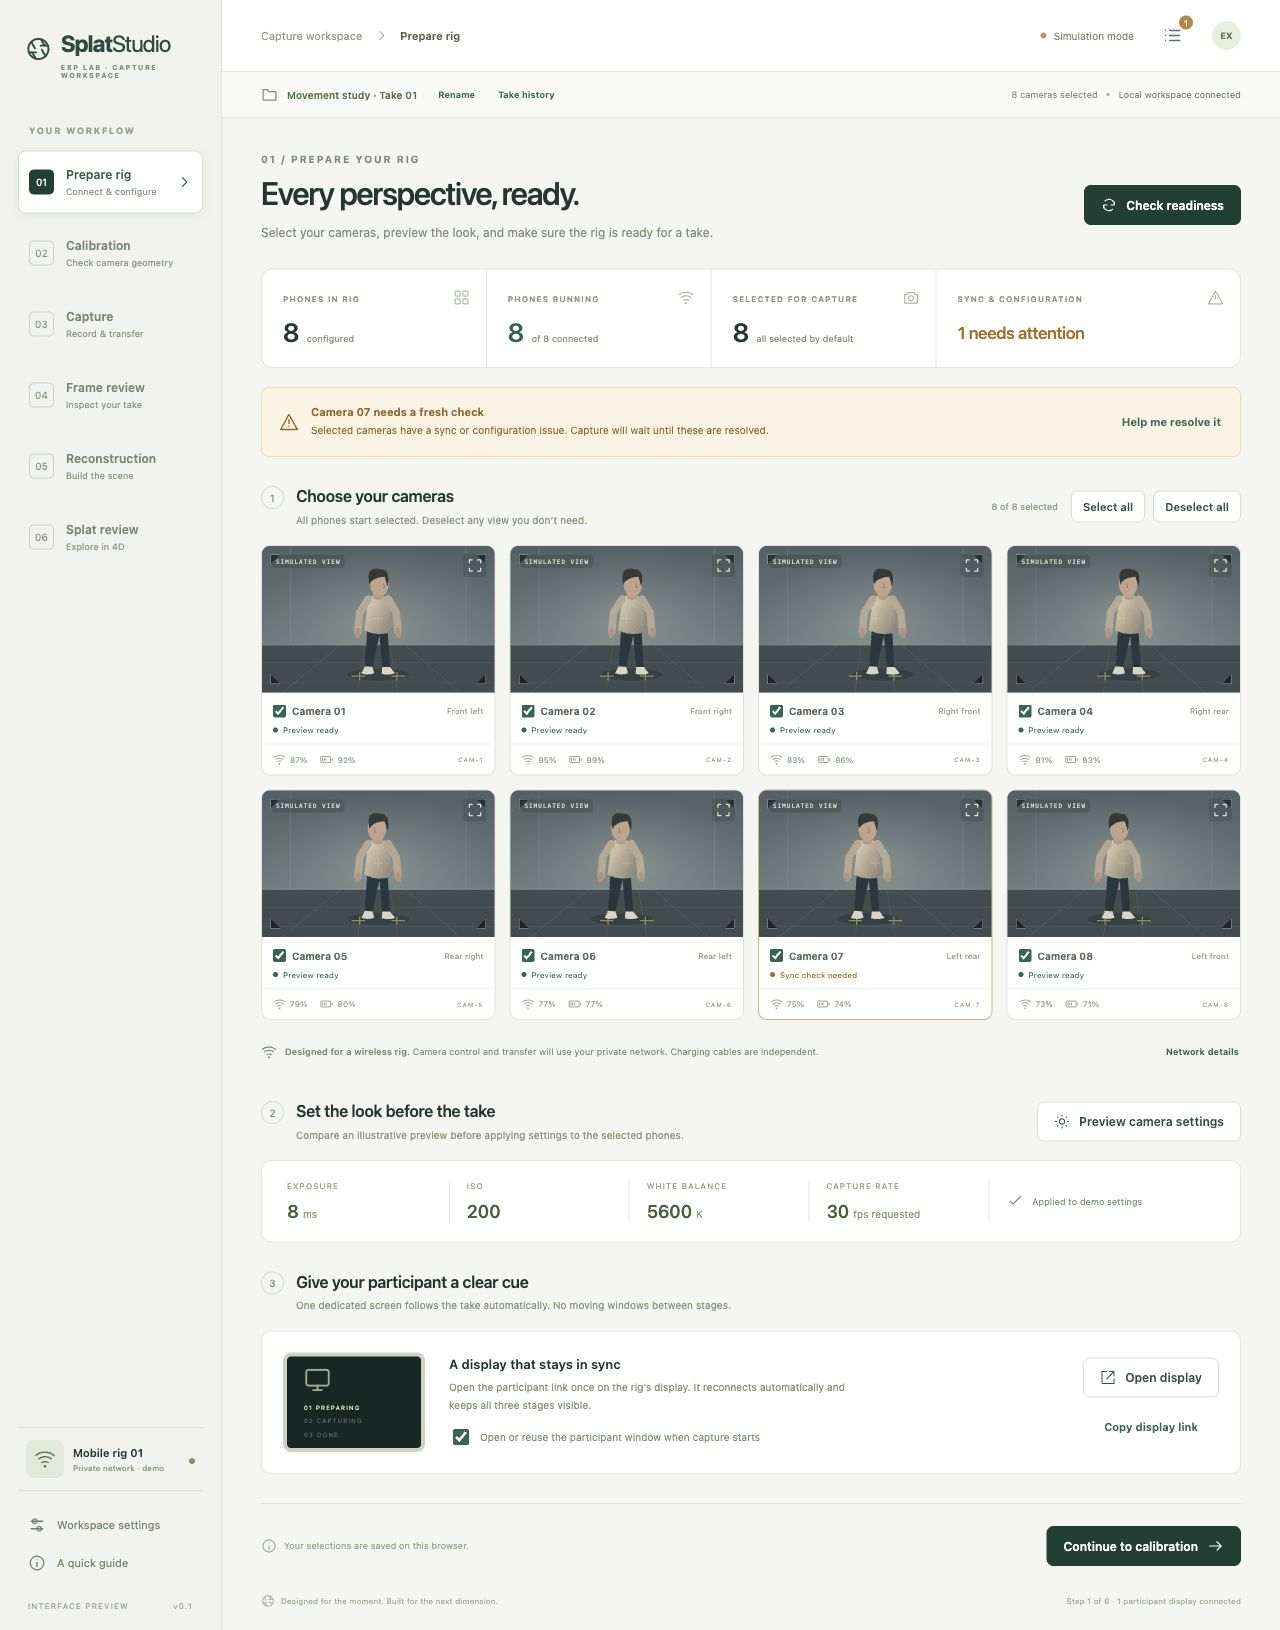
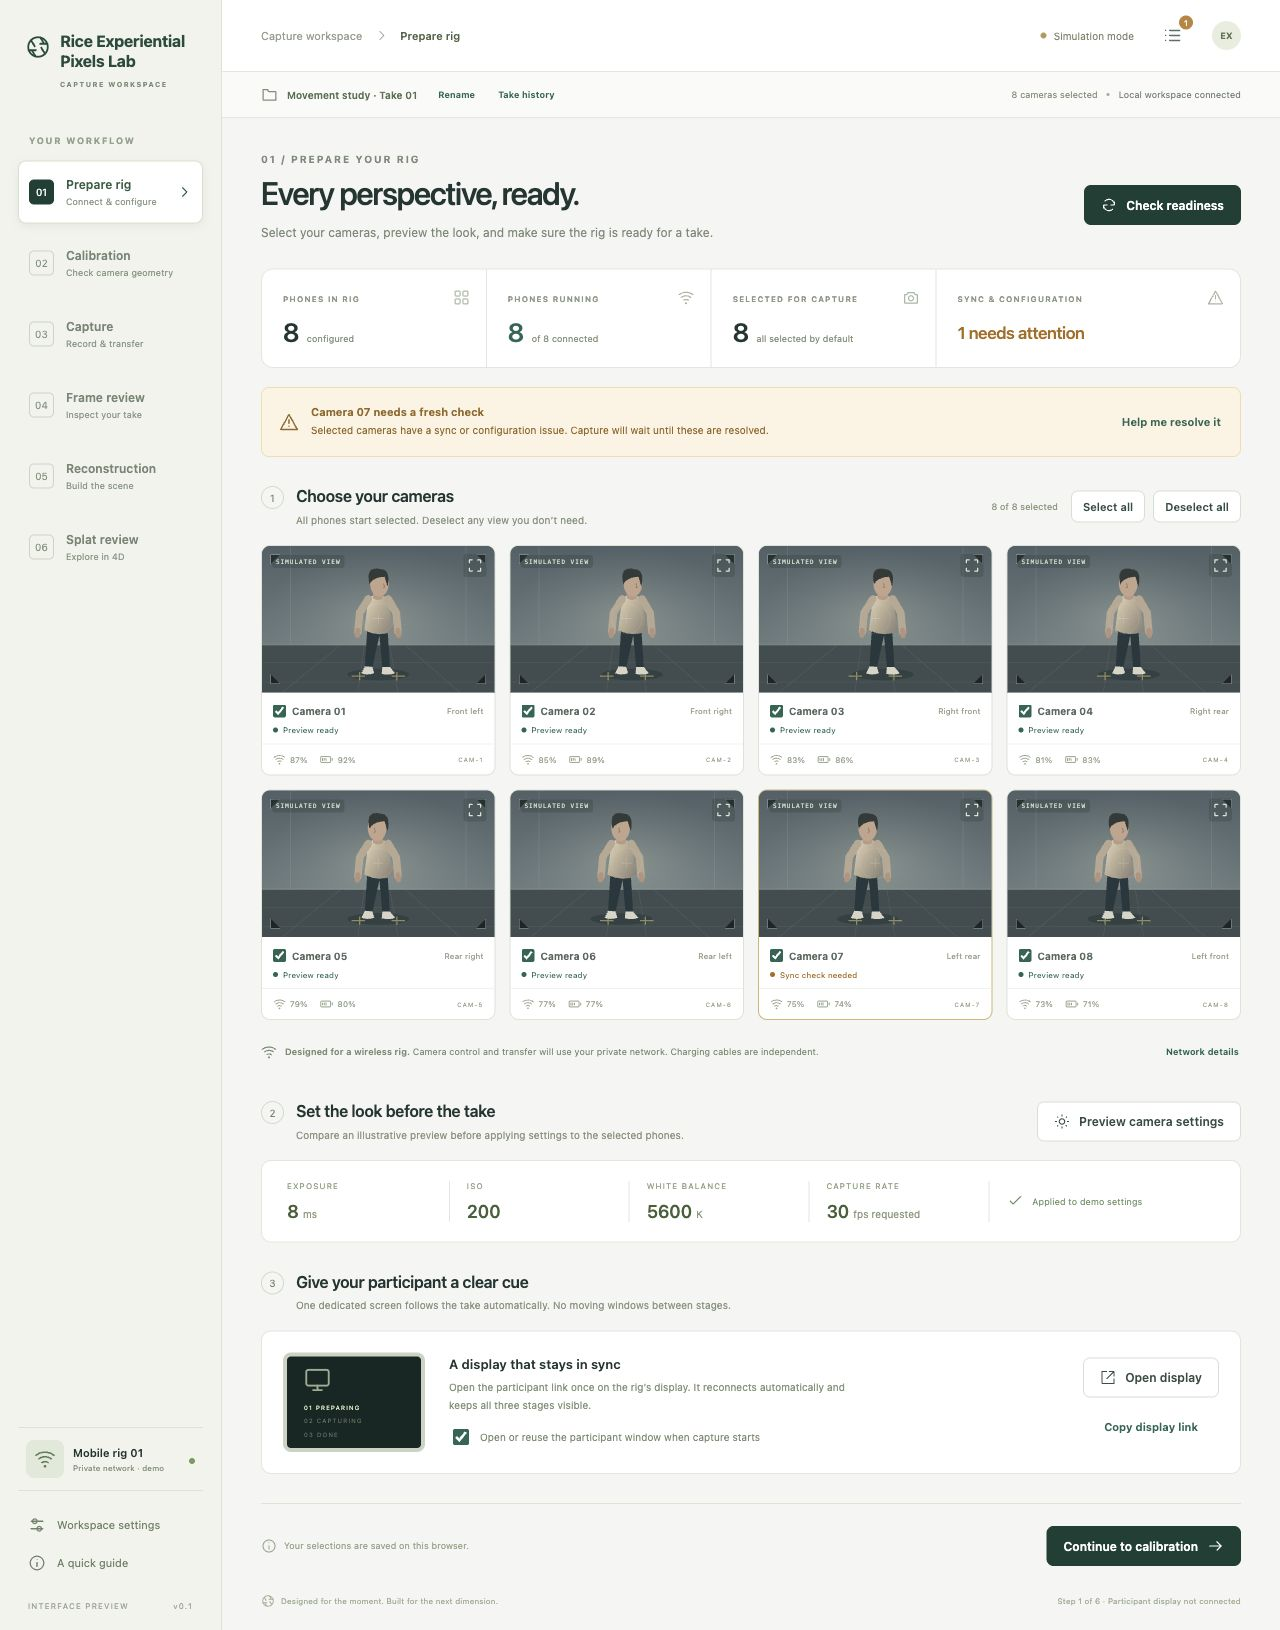
Rename app to Rice Experiential Pixels Lab

Changed region(s): [[0.0, 0.0, 0.1562, 0.3374]]

diff --git a/public/js/app.js b/public/js/app.js
@@ -47,7 +47,7 @@ function modal(markup,className='') {
 }
 function closeDialog(){const dialog=overlays.querySelector('dialog');if(dialog){if(dialog.classList.contains('log-dialog'))logOpen=false;dialog.close();dialog.remove();}draftSettings=null;}
 function infoDialog(title,body,footer='') {
-  modal(`<div class="dialog-heading"><div><div class="eyebrow">SPLAT STUDIO / UI PREVIEW</div><h2>${title}</h2></div><button class="icon-button" data-action="close-dialog" aria-label="Close dialog">${icon('close')}</button></div><div class="issue-dialog-body">${body}</div><footer class="dialog-footer">${footer||button('Got it','close-dialog','primary')}</footer>`);
+  modal(`<div class="dialog-heading"><div><div class="eyebrow">RICE EXPERIENTIAL PIXELS LAB / UI PREVIEW</div><h2>${title}</h2></div><button class="icon-button" data-action="close-dialog" aria-label="Close dialog">${icon('close')}</button></div><div class="issue-dialog-body">${body}</div><footer class="dialog-footer">${footer||button('Got it','close-dialog','primary')}</footer>`);
 }
 function openParticipant() {
   // A user gesture is required by browsers. A named window is reused for subsequent takes.
@@ -224,8 +224,8 @@ const actionHandlers={
   'event-help':el=>{const id=el.dataset.id,event=el.dataset.event;closeDialog();modal(issueDialog(state,id,event),'issue-dialog');},
   'issue-to-logs':openLogs,logs:openLogs,'close-logs':closeDialog,
   'follow-events':()=>{logFollow=true;logUnread=0;byId('log-follow').checked=true;renderLogEntries();},
-  'export-log':()=>exportJSON({mode:'simulation',events:state.events},'splat-studio-activity.json'),
-  'export-session':()=>exportJSON({...state,exportedAt:new Date().toISOString(),mode:'simulation',notice:'UI demo. No real images, camera measurements, or trained splats.'},'splat-studio-session.json'),
+  'export-log':()=>exportJSON({mode:'simulation',events:state.events},'rice-experiential-pixels-lab-activity.json'),
+  'export-session':()=>exportJSON({...state,exportedAt:new Date().toISOString(),mode:'simulation',notice:'UI demo. No real images, camera measurements, or trained splats.'},'rice-experiential-pixels-lab-session.json'),
   participant:openParticipant,
   'copy-participant':async()=>{const link=new URL('/participant.html',location.href).href;try{await navigator.clipboard.writeText(link);toast('Participant display link copied.');}catch{infoDialog('Participant display link',`<p>Copy this link and open it on the rig’s display. For another device, use the server’s private-network address.</p><input aria-label="Participant link" value="${esc(link)}" readonly>`);}},
   rename:()=>infoDialog('Name this session',`<label>Session name<input id="rename-input" maxlength="80" value="${esc(state.sessionName)}" ${busy()?'disabled':''}></label>`,button('Cancel','close-dialog','secondary')+button('Save name','save-name','primary',busy()?'disabled':'')),

diff --git a/public/js/views.js b/public/js/views.js
@@ -12,7 +12,7 @@ export function shell(state,{serverOnline=true,displays=0}={}) {
   const warnings=issueCount(state);
   return `<a class="skip-link" href="#workspace">Skip to workspace</a>
   <aside class="sidebar">
-    <a class="brand" href="#prepare">${icon('aperture',30)}<div>Splat<span>Studio</span><small>EXP LAB · CAPTURE WORKSPACE</small></div></a>
+    <a class="brand" href="#prepare">${icon('aperture',30)}<div><span>Rice Experiential Pixels Lab</span><small>CAPTURE WORKSPACE</small></div></a>
     <div class="sidebar-label">YOUR WORKFLOW</div>
     <nav class="step-nav" aria-label="Capture workflow">${STEPS.map((s,i)=>`<button data-step="${s.id}" class="nav-step ${state.step===s.id?'active':''}" ${state.step===s.id?'aria-current="step"':''}><span class="nav-number">${String(i+1).padStart(2,'0')}</span><span><b>${s.name}</b><small>${s.detail}</small></span>${state.step===s.id?icon('chevron',15):''}</button>`).join('')}</nav>
     <div class="sidebar-bottom"><div class="rig-card"><div class="rig-icon">${icon('wifi',22)}</div><div><strong>Mobile rig 01</strong><span>Private network · demo</span></div><span class="small-dot"></span></div><button class="sidebar-action" data-action="network">${icon('settings',18)} Workspace settings</button><button class="sidebar-action" data-action="help">${icon('info',18)} A quick guide</button><div class="sidebar-version"><span>INTERFACE PREVIEW</span><span>v0.1</span></div></div>

diff --git a/test/server.test.js b/test/server.test.js
@@ -7,7 +7,7 @@ test('UI server serves modules and relays participant state without device comma
   t.after(()=>child.kill('SIGTERM'));
   await Promise.race([once(child.stdout,'data'),once(child,'exit').then(()=>{throw Error('Server exited before startup');})]);
   const origin='http://127.0.0.1:14317';
-  const html=await fetch(origin);assert.equal(html.status,200);assert.match(await html.text(),/Splat Studio/);
+  const html=await fetch(origin);assert.equal(html.status,200);assert.match(await html.text(),/Rice Experiential Pixels Lab/);
   const js=await fetch(`${origin}/js/app.js`);assert.match(js.headers.get('content-type'),/javascript/);
   const invalid=await fetch(`${origin}/api/participant/state`,{method:'POST',body:JSON.stringify({phase:'pretend-recording'})});assert.equal(invalid.status,400);
   const external=await fetch(`${origin}/api/participant/state`,{method:'POST',headers:{Origin:'http://external.example'},body:JSON.stringify({phase:'done'})});assert.equal(external.status,403);

diff --git a/public/styles.css b/public/styles.css
@@ -304,17 +304,22 @@ a {
 
 .brand>svg {
   margin-top:3px;
+  flex-shrink:0;
+  width:26px;
+  height:26px;
 }
 
 .brand>div {
-  font-size:23px;
-  letter-spacing:-1px;
+  min-width:0;
+  font-size:16px;
+  letter-spacing:-.3px;
   font-weight:720;
-  line-height:1.05;
+  line-height:1.25;
 }
 
 .brand span {
-  font-weight:400;
+  display:block;
+  font-weight:inherit;
 }
 
 .brand small {
@@ -2474,13 +2479,8 @@ dialog::backdrop {
 
 .participant-header>a {
   font-size:14px;
-  letter-spacing:4px;
+  letter-spacing:.3px;
   font-weight:650;
-}
-
-.participant-header>a span {
-  font-weight:300;
-  color:#afc1a5;
 }
 
 .participant-header>.pill {
@@ -2640,7 +2640,7 @@ dialog::backdrop {
     padding-left:3px;
   }
   .brand>div {
-    font-size:21px;
+    font-size:15px;
   }
   .brand small {
     font-size:6px;
@@ -2771,7 +2771,7 @@ dialog::backdrop {
     width:26px;
   }
   .brand>div {
-    font-size:22px;
+    font-size:17px;
   }
   .brand small {
     font-size:6px;

diff --git a/public/participant.html b/public/participant.html
@@ -4,11 +4,11 @@
   <meta charset="utf-8">
   <meta name="viewport" content="width=device-width,initial-scale=1">
   <meta name="theme-color" content="#101c1e">
-  <title>Splat Studio · Participant display</title>
+  <title>Rice Experiential Pixels Lab · Participant display</title>
   <link rel="stylesheet" href="/styles.css">
 </head>
 <body class="participant-body">
-  <header class="participant-header"><a href="/">SPLAT<span>STUDIO</span></a><span id="connection" class="pill">Connecting…</span><button id="fullscreen" class="button dark-button">Full screen</button></header>
+  <header class="participant-header"><a href="/">Rice Experiential Pixels Lab</a><span id="connection" class="pill">Connecting…</span><button id="fullscreen" class="button dark-button">Full screen</button></header>
   <main class="participant-main">
     <div class="eyebrow">PARTICIPANT DISPLAY · SIMULATION</div>
     <h1 id="participant-title">A little movement.<br>A new dimension.</h1>

diff --git a/public/index.html b/public/index.html
@@ -4,7 +4,7 @@
   <meta charset="utf-8">
   <meta name="viewport" content="width=device-width,initial-scale=1">
   <meta name="theme-color" content="#153b3a">
-  <title>Splat Studio · Capture workspace</title>
+  <title>Rice Experiential Pixels Lab · Capture workspace</title>
   <link rel="stylesheet" href="/styles.css">
 </head>
 <body>

diff --git a/README.md b/README.md
@@ -1,10 +1,10 @@
-# Splat Studio — Multi-Phone-Splat Redesign
+# Rice Experiential Pixels Lab — Multi-Phone-Splat Redesign
 
 A guided interface for a multi-phone 4D capture rig. This first version is a **working UI prototype**: select cameras, preview settings, walk through capture, recover a simulated transfer failure, review frames, and navigate a sample point scene.
 
 **No phone commands, real camera streams, calibration solves, file transfers, or model training run in this version.** The three-stage participant display does work across devices through the local UI server. Illustrative views and results are labeled as simulations.
 
-![Splat Studio camera setup](docs/screenshots/splat-studio-ui.jpg)
+![Rice Experiential Pixels Lab camera setup](docs/screenshots/splat-studio-ui.jpg)
 
 ## Run it on your computer
 
